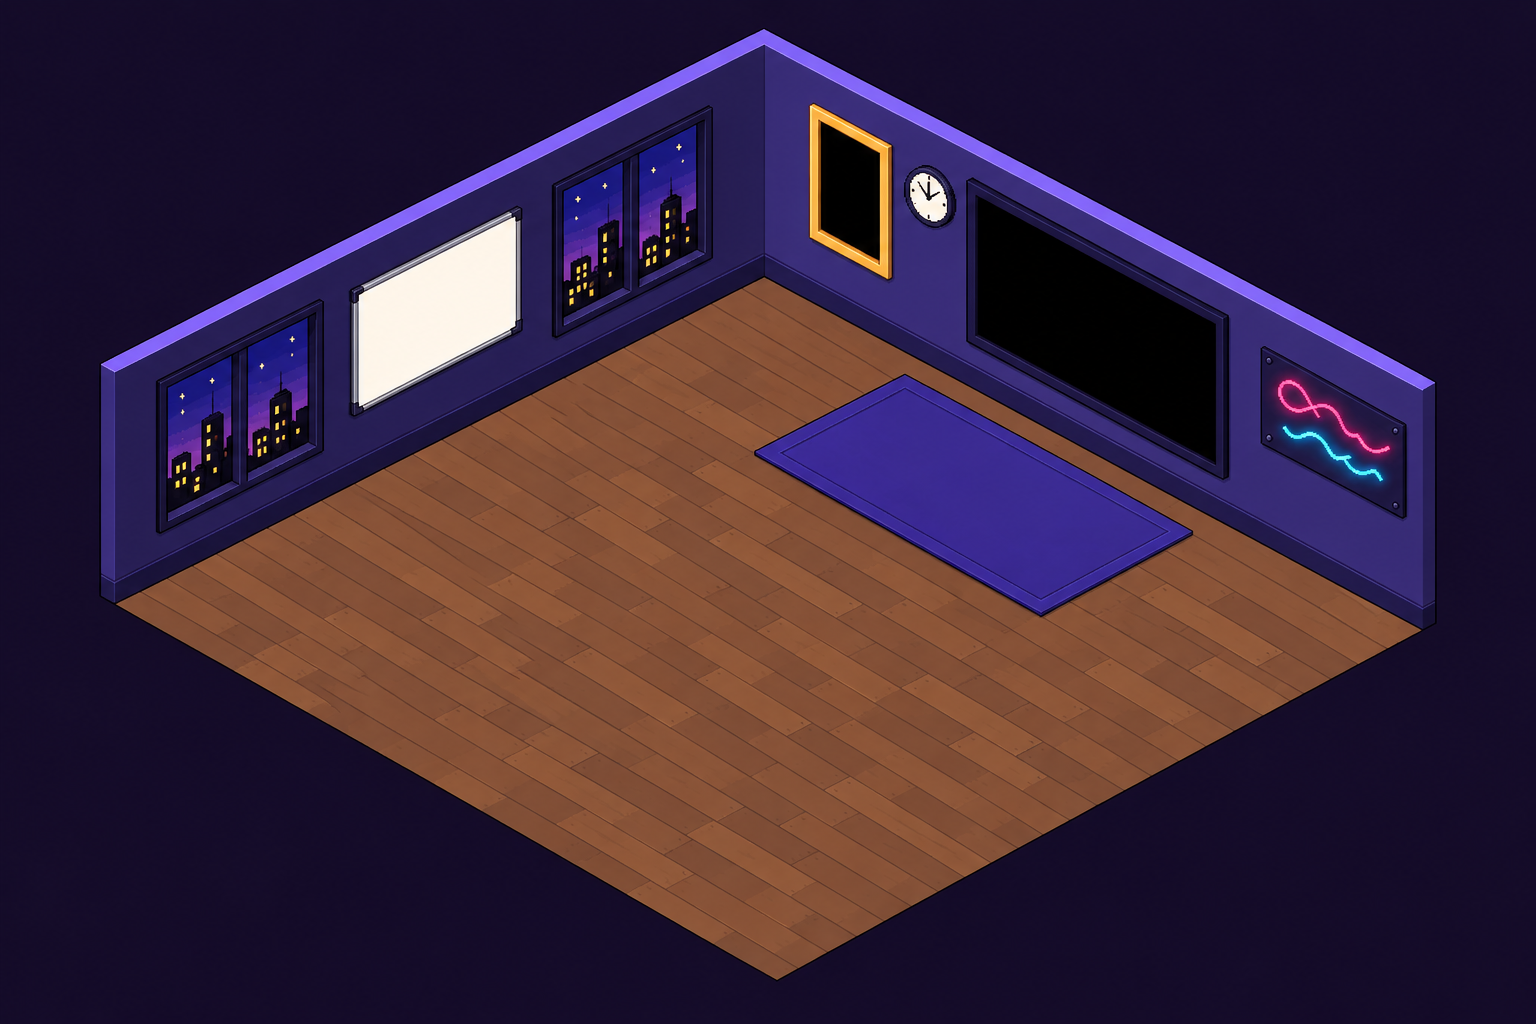
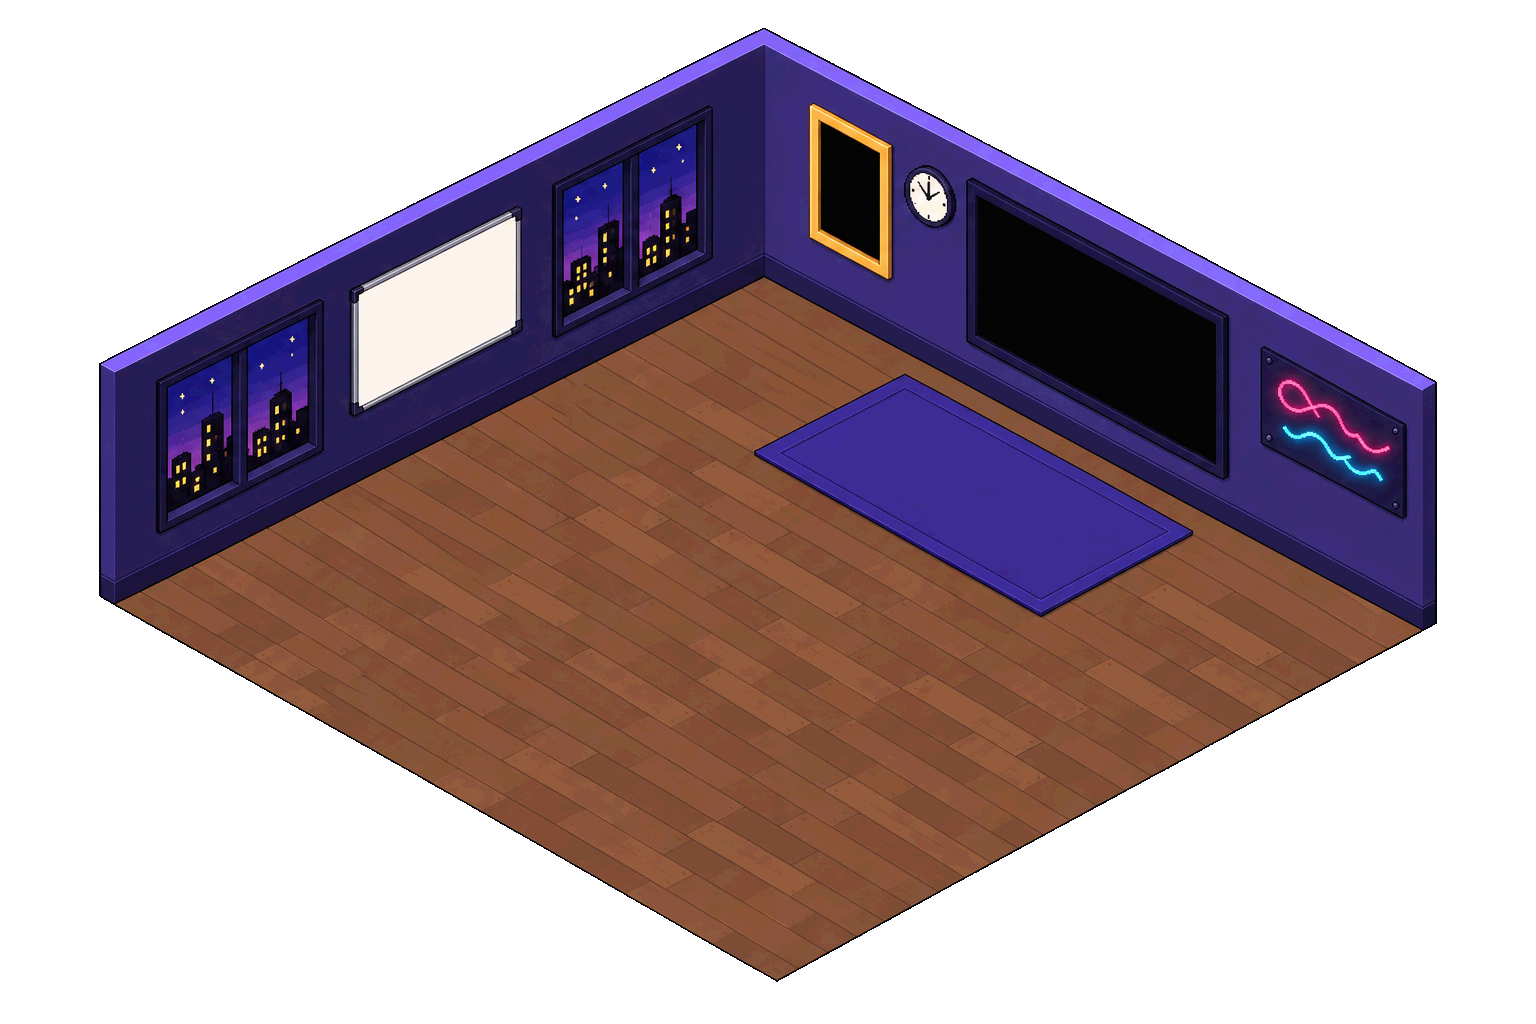
Float the office on the page and load it faster
- Importer cuts the flat violet surround out of the room background and
  posterizes it to 5 bits per channel (1.68 MB -> 335 KB, no visible change)
- The office clears its canvas each frame so the page shows around the room
- An "Opening the studio" loader replaces the sign-in screen while the
  office starts, so signed-in players never see the sign-in flash

diff --git a/public/office/office.css b/public/office/office.css
@@ -291,3 +291,14 @@ body.has-art .logo { background: none; box-shadow: none; }
 .logo img { width: 36px; height: 36px; object-fit: contain; image-rendering: pixelated; }
 .coin-img { width: 18px; height: 18px; object-fit: contain; image-rendering: pixelated; }
 .coin-img.big { width: 44px; height: 44px; }
+
+/* ---------------------------------------------------------------- boot loader */
+.booting { background: var(--bg); backdrop-filter: none; }
+.boot-box { display: grid; justify-items: center; gap: 16px; }
+.boot-box .display { font-size: 12px; color: var(--muted); margin: 0; }
+.boot-dots { display: flex; gap: 8px; }
+.boot-dots i { width: 12px; height: 12px; background: var(--pink); box-shadow: 2px 2px 0 #000; animation: bootdot 0.9s steps(2) infinite; }
+.boot-dots i:nth-child(2) { background: var(--blue); animation-delay: 0.3s; }
+.boot-dots i:nth-child(3) { background: var(--gold); animation-delay: 0.6s; }
+@keyframes bootdot { 50% { transform: translateY(-6px); } }
+@media (prefers-reduced-motion: reduce) { .boot-dots i { animation: none; } }

diff --git a/public/office/js/app.js b/public/office/js/app.js
@@ -23,7 +23,12 @@ const el = (tag, attrs = {}, ...kids) => {
   return n;
 };
 const short = (a) => (a && a.length > 12 ? `${a.slice(0, 6)}…${a.slice(-4)}` : a || "");
-const show = (id, on = true) => { $(id).hidden = !on; };
+// The "Opening the studio…" loader stays up until the first real screen appears.
+const SCREENS = new Set(["entrance", "register", "no-agent", "hud"]);
+const show = (id, on = true) => {
+  $(id).hidden = !on;
+  if (on && SCREENS.has(id)) $("booting").hidden = true;
+};
 
 const state = {
   cfg: null, agency: null, staff: new Map(), current: null, unsubscribe: null,
@@ -165,6 +170,7 @@ async function boot() {
   } catch {
     $("entrance-error").textContent = "The studio building is closed right now. Try again in a minute.";
     show("entrance-error");
+    show("entrance");
     return;
   }
   const { credits, employees } = state.cfg;

diff --git a/public/office/index.html b/public/office/index.html
@@ -145,7 +145,14 @@
   </div>
 
   <!-- Entrance: you need a studio to go in. -->
-  <div id="entrance" class="overlay">
+  <div id="booting" class="overlay booting" role="status">
+    <div class="boot-box">
+      <span class="boot-dots" aria-hidden="true"><i></i><i></i><i></i></span>
+      <p class="display">Opening the studio…</p>
+    </div>
+  </div>
+
+  <div id="entrance" class="overlay" hidden>
     <div class="sheet">
       <div class="sign display"><span class="pink">KULT</span> <span class="blue">CREATE</span></div>
       <p class="lead">The game studio building of Kult World.</p>

diff --git a/public/office/js/world.js b/public/office/js/world.js
@@ -614,6 +614,7 @@ export class Office {
   drawArt() {
     const g = this.ctx, A = this.art;
     g.setTransform(this.dpr, 0, 0, this.dpr, 0, 0);
+    g.clearRect(0, 0, this.W, this.H); // the room is cut out: the page shows around it
     g.imageSmoothingEnabled = false;
     g.drawImage(A.img, 0, 0, this.W, this.H);
     // Live wall content, painted at high resolution.
